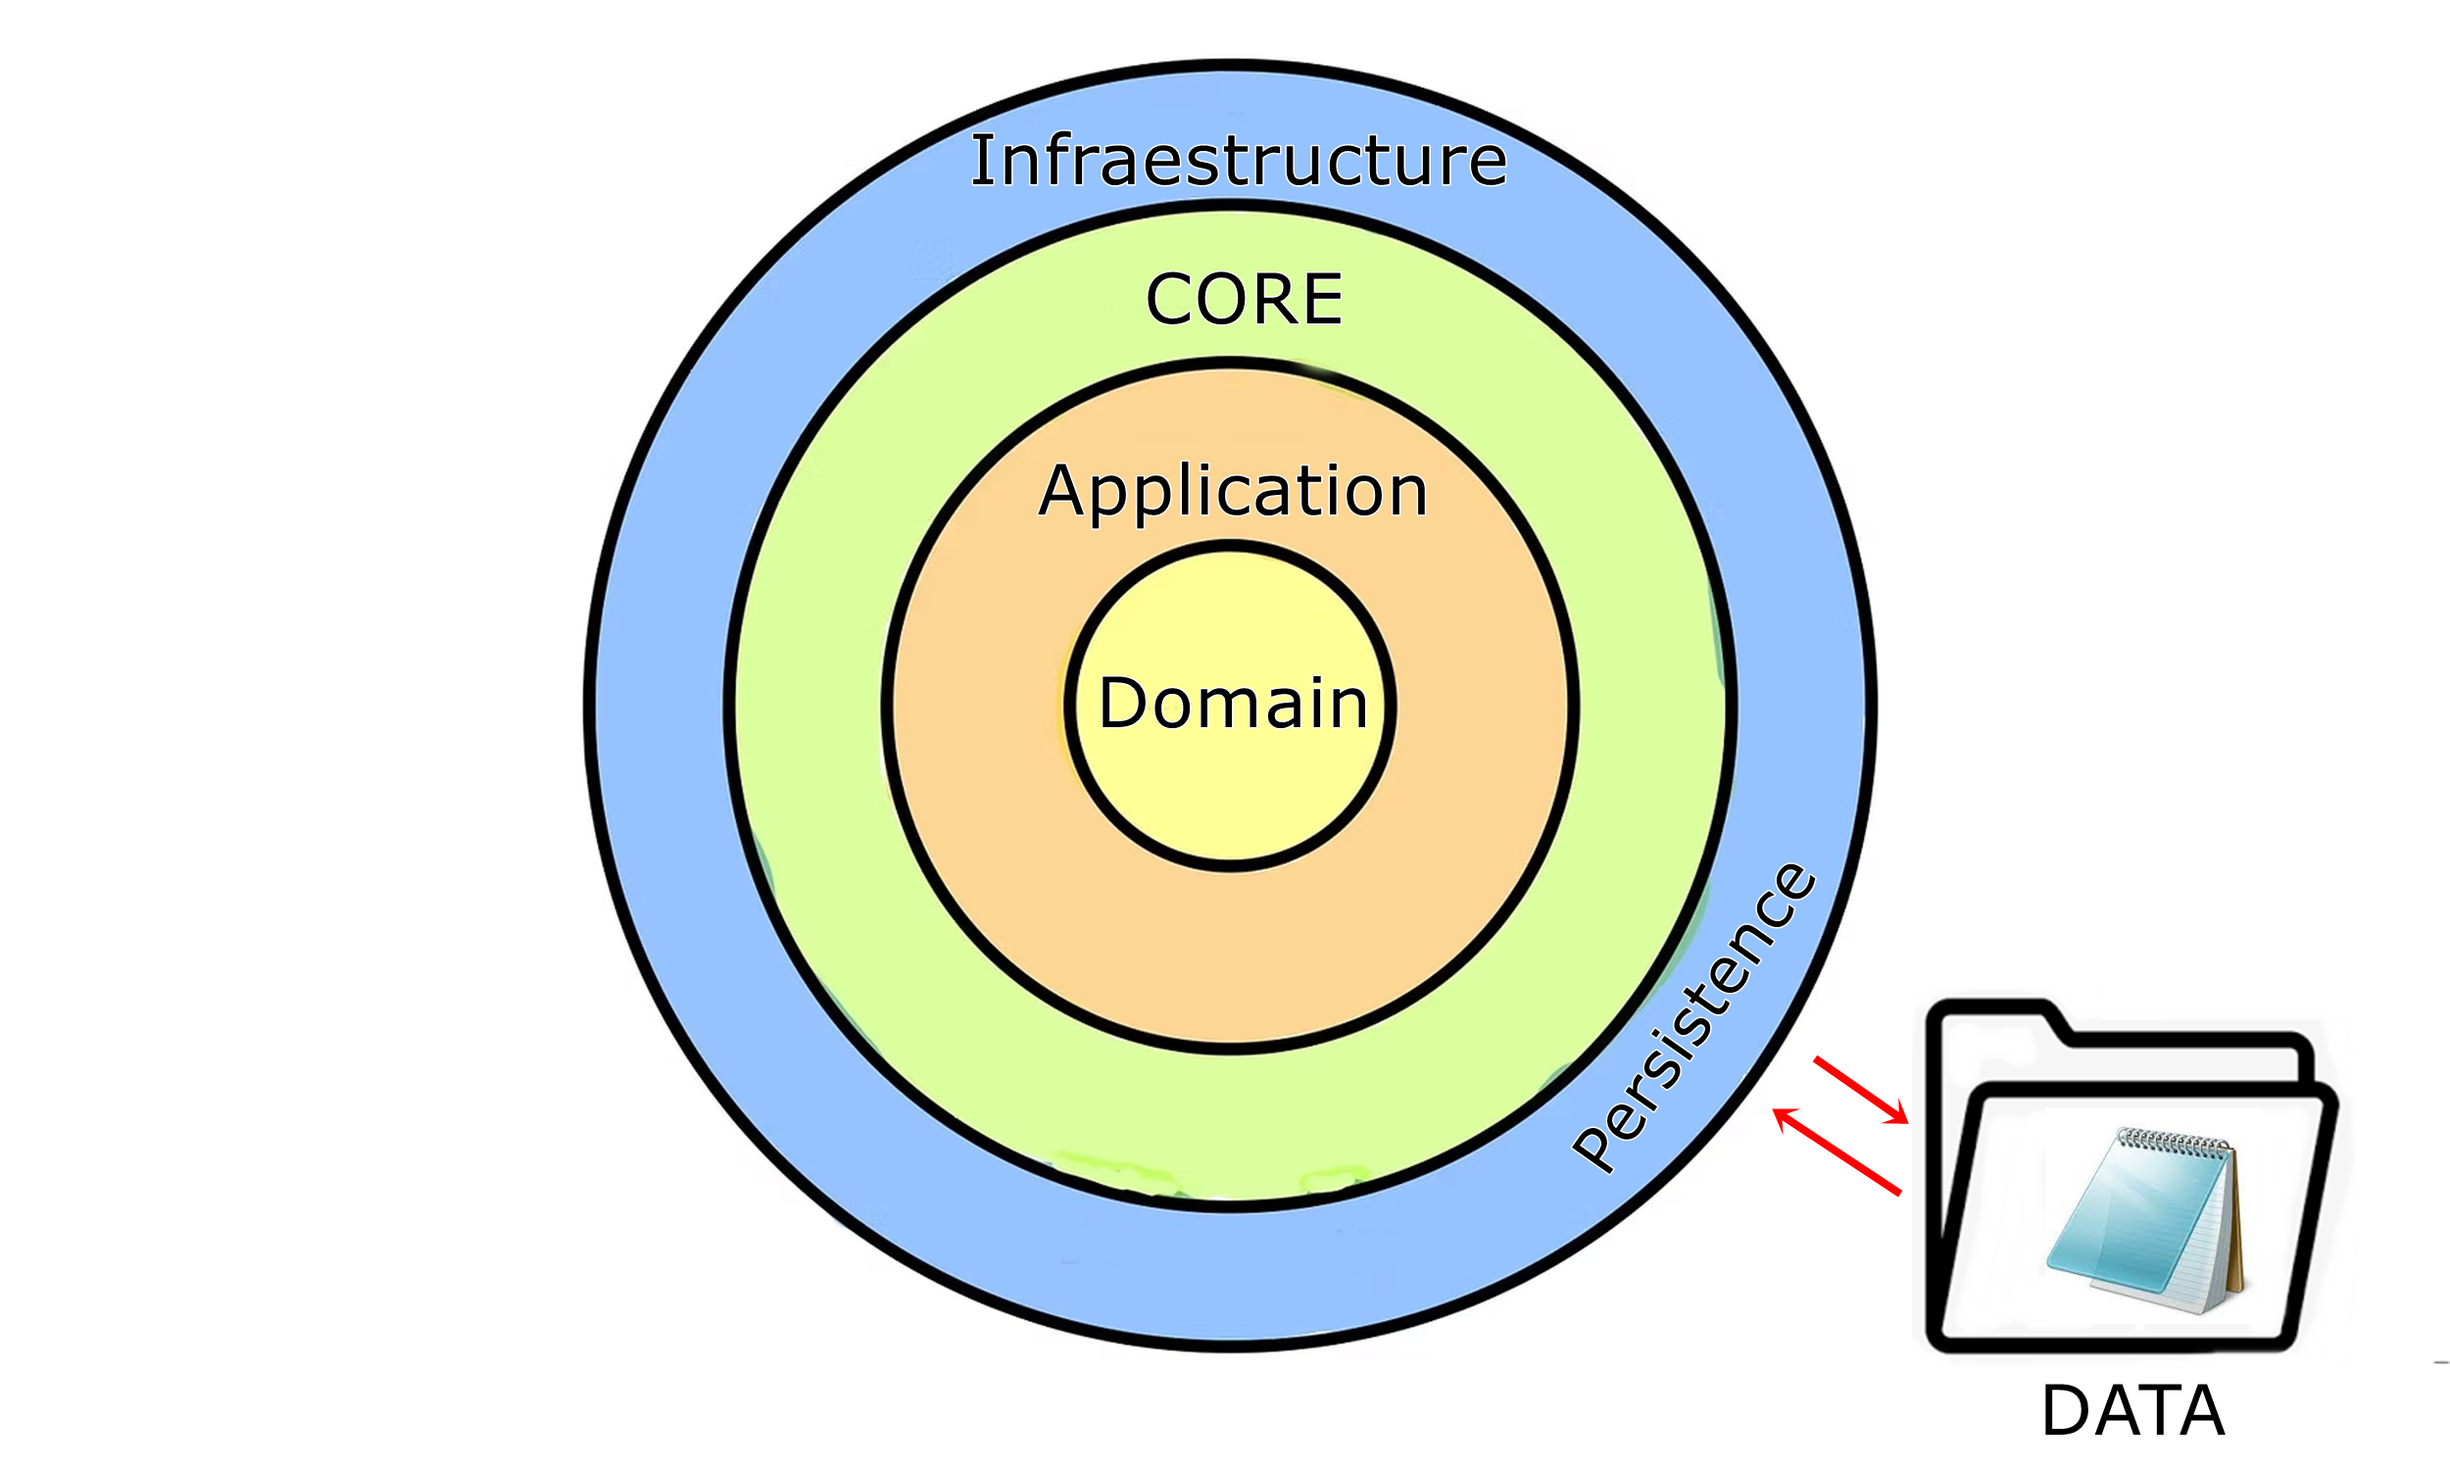
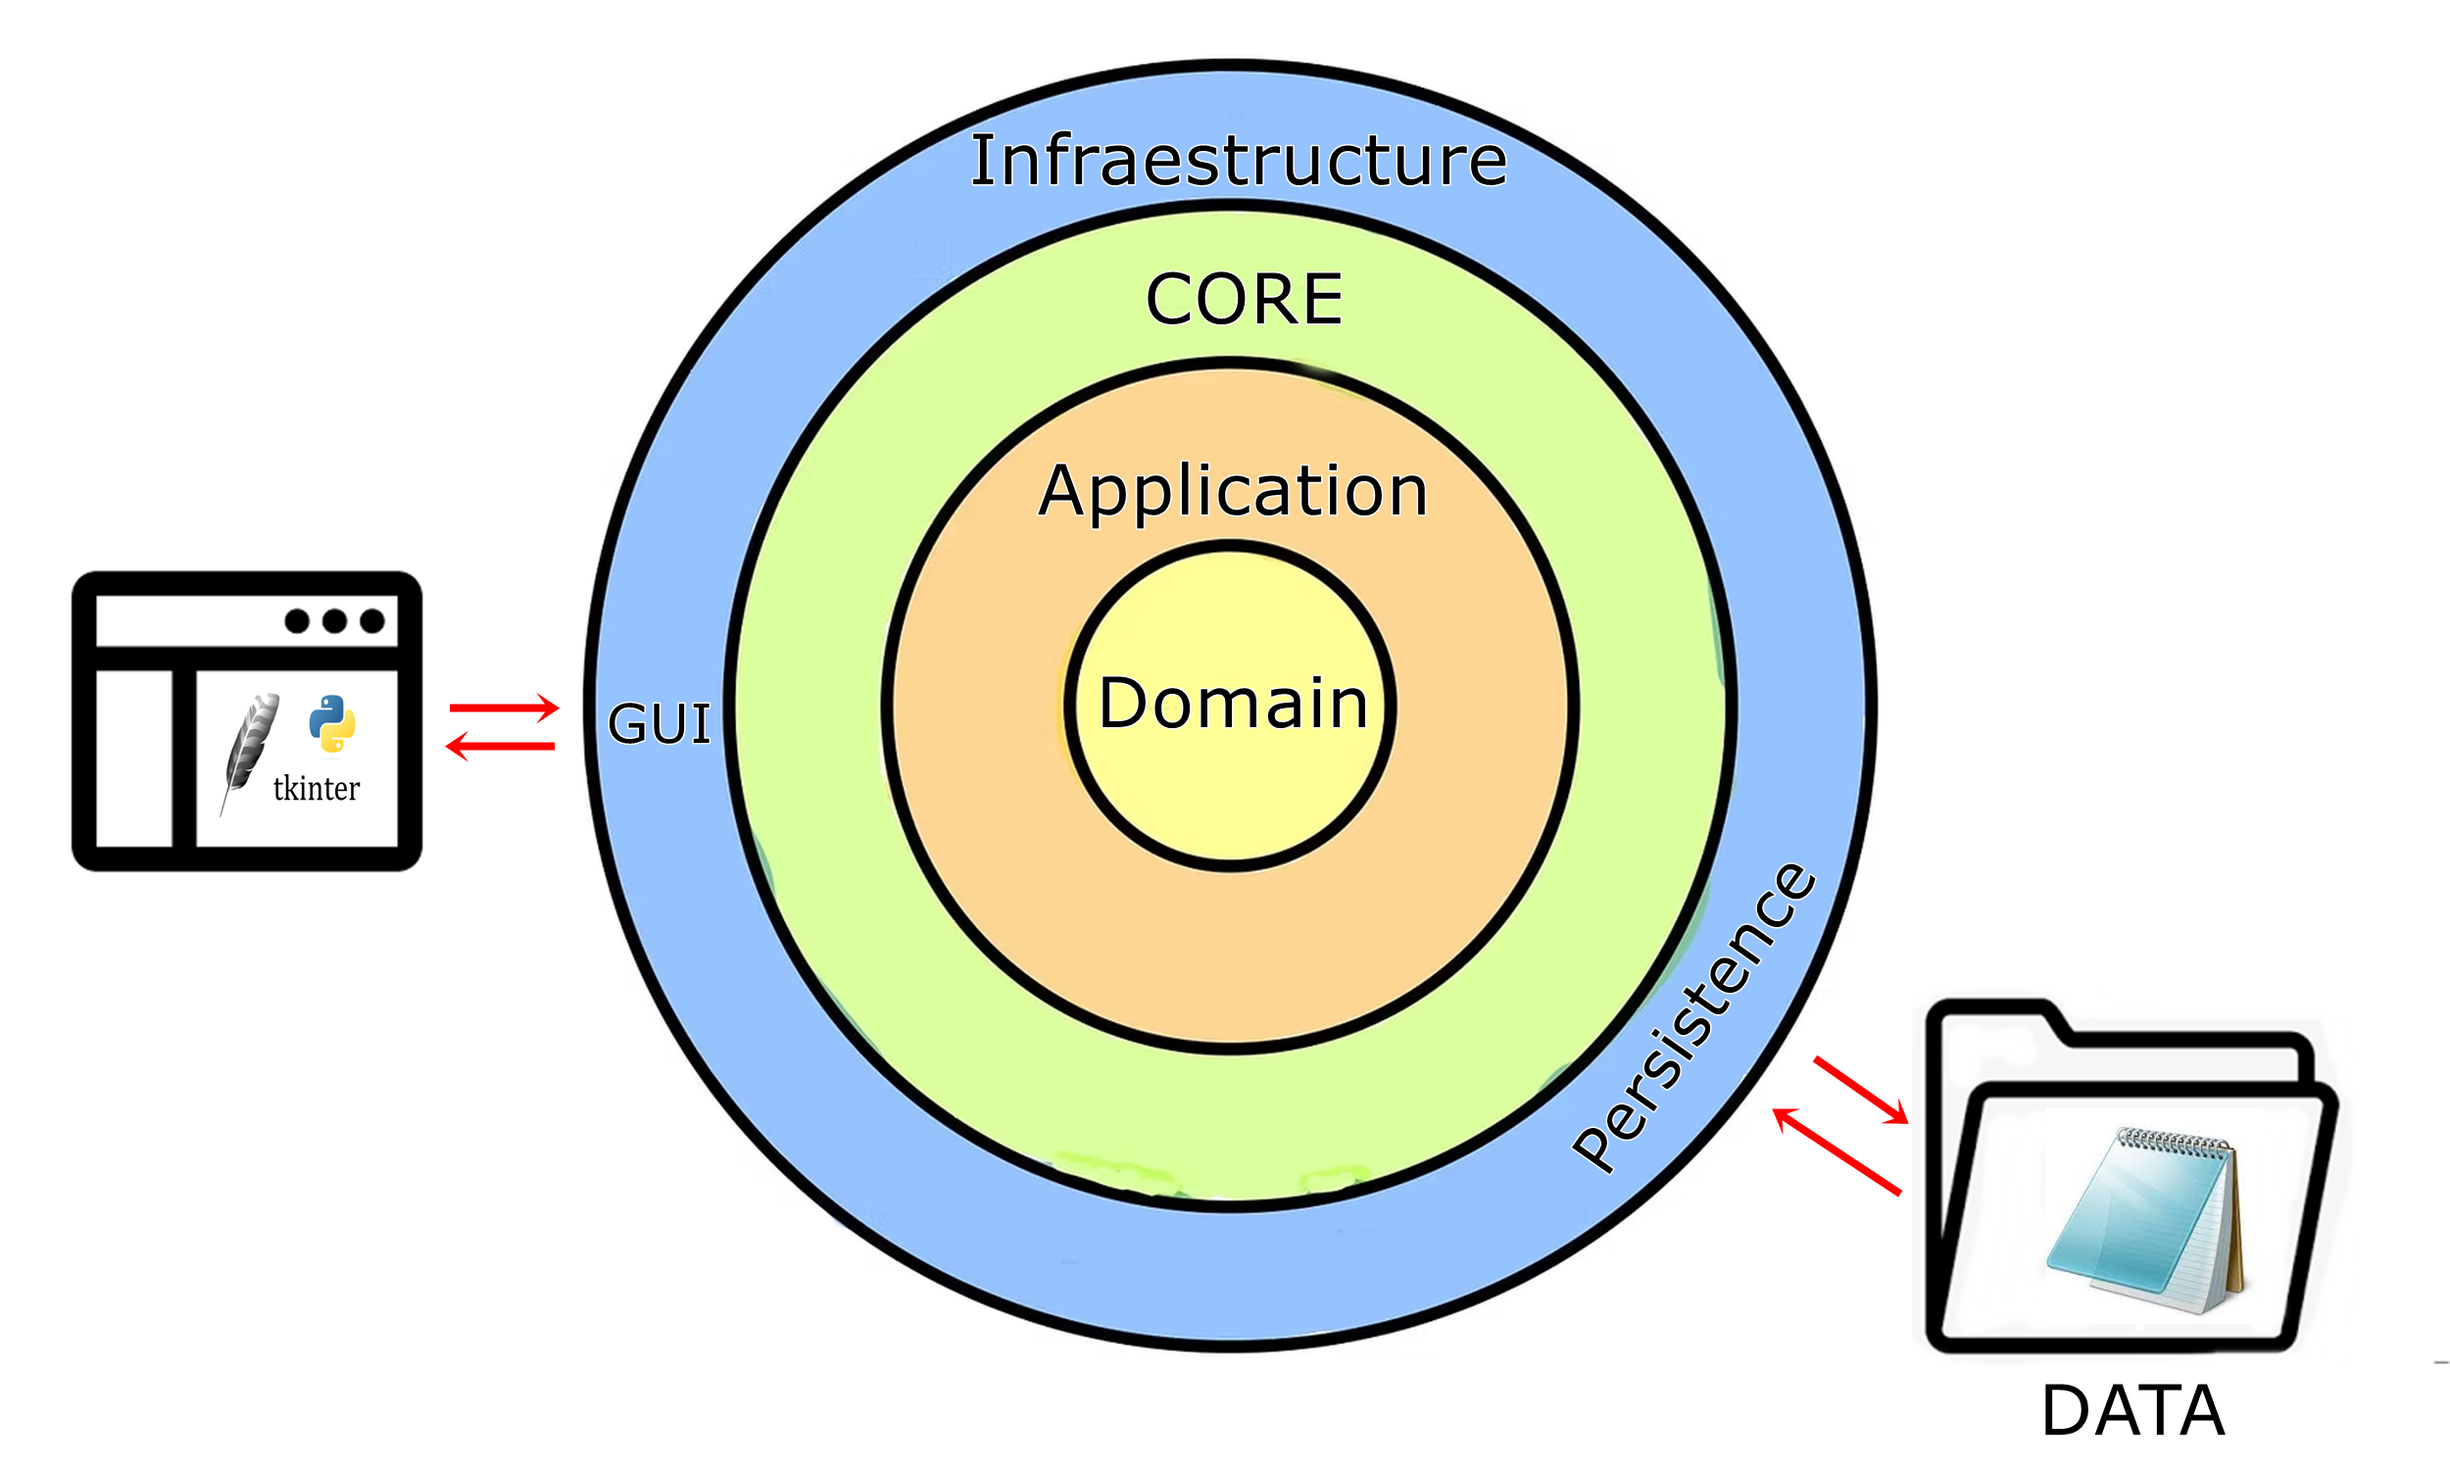
GUI

Changed region(s): [[0.0312, 0.368, 0.2184, 0.6133], [0.2496, 0.46, 0.2808, 0.5213]]

diff --git a/Infraestructure/GUI/MainWindow.py b/Infraestructure/GUI/MainWindow.py
@@ -1,0 +1,34 @@
+"""
+FelipedelosH
+2025
+
+MAIN WINDOW
+"""
+import tkinter as tk
+from Infraestructure.GUI.ScreenManager import ScreenManager
+from Infraestructure.GUI.views.DiaryView import DiaryView
+from Infraestructure.GUI.views.FinancesView import FinancesView
+from Infraestructure.GUI.views.GraphsView import GraphsView
+from Infraestructure.GUI.views.ChatbotView import ChatbotView
+from Infraestructure.GUI.views.SettingsView import SettingsView
+
+class MainWindow:
+    def __init__(self):
+        self.root = tk.Tk()
+        self.root.title("Diario Personal V2.0")
+        self.root.geometry("640x480")
+
+        self.manager = ScreenManager(self.root)
+
+        # Registrar pantallas
+        self.manager.add("diary", DiaryView)
+        self.manager.add("finances", FinancesView)
+        self.manager.add("graphs", GraphsView)
+        self.manager.add("chatbot", ChatbotView)
+        self.manager.add("settings", SettingsView)
+
+        # Mostrar pantalla inicial
+        self.manager.show("diary")
+
+    def run(self):
+        self.root.mainloop()

diff --git a/main.py b/main.py
@@ -6,7 +6,19 @@ PersonalDiaryV2.0
 """
 from CORE.MainController import MainController
 from CORE.DependencyInjector import DependencyInjector
+from Infraestructure.GUI.MainWindow import MainWindow
 
-controller = MainController(DependencyInjector.build_dependencies(), DependencyInjector.build_utils())
-reqSaveStatus = controller.save_diary_page("titulo", "Hoy avancé mucho en mi diario personal")
-print(f"Status: {reqSaveStatus}")
+class Software:
+    def __init__(self):
+        self.controller = MainController(
+            DependencyInjector.build_dependencies(),
+            DependencyInjector.build_utils()
+        )
+        # RUN APP
+        self.launch()
+
+    def launch(self):
+        app = MainWindow()
+        app.run()
+
+s = Software()

diff --git a/Infraestructure/GUI/ScreenManager.py b/Infraestructure/GUI/ScreenManager.py
@@ -1,0 +1,18 @@
+"""
+FelipedelosH
+2025
+"""
+class ScreenManager:
+    def __init__(self, root):
+        self.root = root
+        self.screens = {}
+        self.current_screen = None
+
+    def add(self, name, screen_class):
+        self.screens[name] = screen_class(self.root, self)
+
+    def show(self, name):
+        if self.current_screen:
+            self.current_screen.destroy()
+        self.current_screen = self.screens[name]
+        self.current_screen.render()

diff --git a/Infraestructure/GUI/Screen.py b/Infraestructure/GUI/Screen.py
@@ -1,0 +1,19 @@
+"""
+FelipedelosH
+2025
+"""
+import tkinter as tk
+from abc import ABC, abstractmethod
+
+class Screen(ABC):
+    def __init__(self, master, manager):
+        self.master = master
+        self.manager = manager
+        self.frame = tk.Frame(self.master)
+
+    @abstractmethod
+    def render(self):
+        pass
+
+    def destroy(self):
+        self.frame.destroy()

diff --git a/Infraestructure/GUI/views/DiaryView.py b/Infraestructure/GUI/views/DiaryView.py
@@ -1,0 +1,12 @@
+"""
+FelipedelosH
+2025
+"""
+from Infraestructure.GUI.Screen import Screen
+import tkinter as tk
+
+class DiaryView(Screen):
+    def render(self):
+        self.frame.pack(fill="both", expand=True)
+        # TODO: UI para escribir/ver diario
+        pass

diff --git a/Infraestructure/GUI/views/SettingsView.py b/Infraestructure/GUI/views/SettingsView.py
@@ -1,0 +1,11 @@
+"""
+FelipedelosH
+2025
+"""
+from Infraestructure.GUI.Screen import Screen
+
+class SettingsView(Screen):
+    def render(self):
+        self.frame.pack(fill="both", expand=True)
+        # TODO: UI para configuración
+        pass

diff --git a/Infraestructure/GUI/views/FinancesView.py b/Infraestructure/GUI/views/FinancesView.py
@@ -1,0 +1,11 @@
+"""
+FelipedelosH
+2025
+"""
+from Infraestructure.GUI.Screen import Screen
+
+class FinancesView(Screen):
+    def render(self):
+        self.frame.pack(fill="both", expand=True)
+        # TODO: UI para finanzas
+        pass

diff --git a/Infraestructure/GUI/views/GraphsView.py b/Infraestructure/GUI/views/GraphsView.py
@@ -1,0 +1,11 @@
+"""
+FelipedelosH
+2025
+"""
+from Infraestructure.GUI.Screen import Screen
+
+class GraphsView(Screen):
+    def render(self):
+        self.frame.pack(fill="both", expand=True)
+        # TODO: UI para gráficas
+        pass

diff --git a/Infraestructure/GUI/views/ChatbotView.py b/Infraestructure/GUI/views/ChatbotView.py
@@ -1,0 +1,11 @@
+"""
+FelipedelosH
+2025
+"""
+from Infraestructure.GUI.Screen import Screen
+
+class ChatbotView(Screen):
+    def render(self):
+        self.frame.pack(fill="both", expand=True)
+        # TODO: UI para chatbot
+        pass
